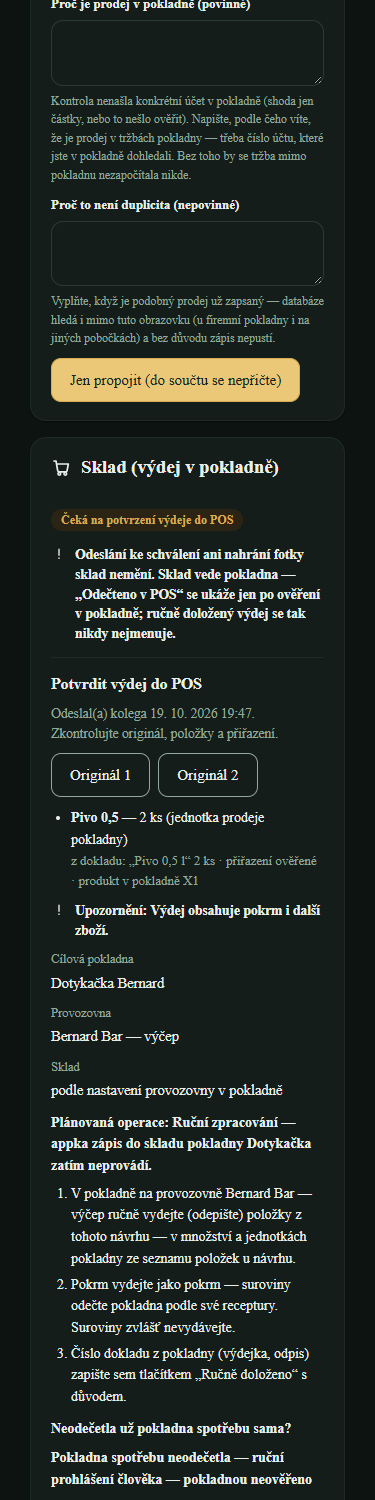
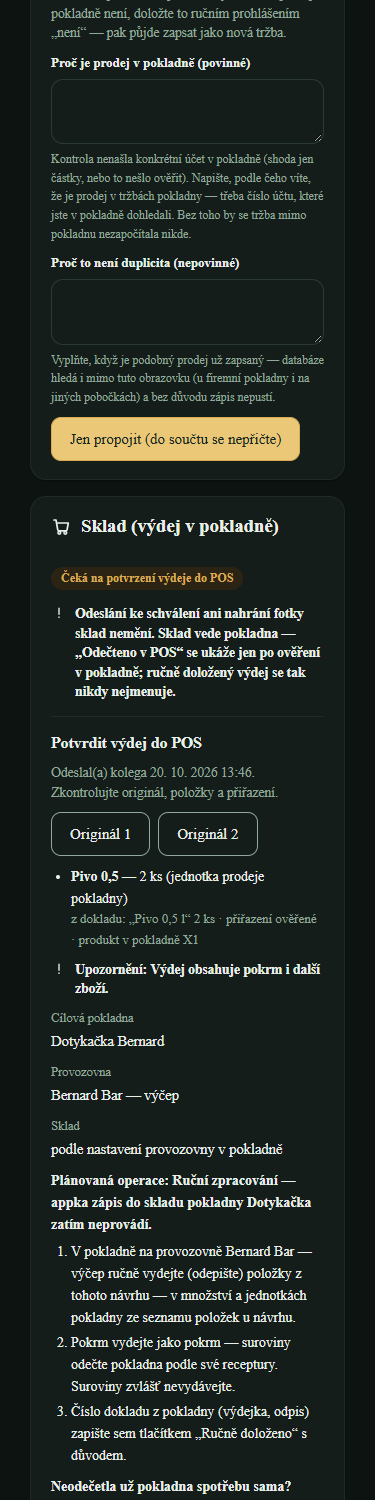
Hlášení: ověření oprav PR #146 (20. 10.) dotažené
11 neúplných oprav a 6 regresí opravených; krok98 209, celý řetěz
3 742, složeně s #147 3 889; 89 z 89 sad; rozbití 121 databáze +
108 aplikace; nové snímky.

Changed region(s): [[0.1173, 0.0, 0.88, 1.0], [0.792, 0.644, 0.8507, 0.6747]]

diff --git a/docs/hlaseni/stav-2026-10-19-jine-platby.md b/docs/hlaseni/stav-2026-10-19-jine-platby.md
@@ -8,6 +8,10 @@ PR.
 > databáze, peníze, pokladna, aplikace, AI; každý nález ověřil další agent)
 > našla 33 platných nálezů. Opravené jsou všechny, tři jen zčásti — viz
 > oddíl **Druhá kontrola (19. 10.)** níž. Čísla v hlášení jsou po opravách.
+>
+> **Doplněno 20. 10.:** nezávislé ověření oprav našlo 11 neúplných oprav a 6
+> nových chyb, které opravy způsobily. Opravené jsou všechny — viz oddíl
+> **Ověření oprav (20. 10.)**. Čísla níž jsou po těchto opravách.
 
 ## Nejdřív to podstatné
 
@@ -47,6 +51,8 @@ PR.
 | **Druhá kontrola:** databáze, scénář krok98 (oddíl 13) | `37e24d2` | **ano** |
 | Druhá kontrola: textová kontrola grantů, dokumentace | `424ba2b`, `f874178` | — |
 | Druhá kontrola: obrazovky, akce, knihovny, navigace Financí, testy | `5fd76d3` | — |
+| **Ověření oprav 20. 10.:** databáze, scénář krok98 (oddíl 14), kontrola grantů | `9244030` | **ano** |
+| Ověření oprav: obrazovky, akce, knihovny, testy; dokumentace | `1c9b755`, `e361e99` | — |
 
 Hlavní opravy z kontroly (podrobně v `docs/jine-platby-navrh.md` a v návodu):
 
@@ -78,35 +84,38 @@ telefon 375 px, telefon v tmavém režimu u panelu schválení).
 ## Čísla — a z čeho jsou
 
 - **Scénář krok98:**
-  - **181 kontrol**; celý řetěz scénářů ve stejném pořadí jako na CI **3 714 kontrol**, nic nespadlo;
+  - **209 kontrol**; celý řetěz scénářů ve stejném pořadí jako na CI **3 742 kontrol**, nic nespadlo;
+  - **složeně s PR #147** (main + #146 + #147, konflikty v `run.sh`, `databaze.yml`, `aplikace.yml` a `otazky.md` vyřešené ponecháním obou stran): **3 889 kontrol**, krok98 209 a krok99 147, nic nespadlo; nový hlídač pořadí migrací z main (#148) prošel;
   - běželo na **PGlite**, ne na PostgreSQL;
   - PGlite **neověří RLS ani sloupcové granty**. Rozhodne workflow „Migrace a scénáře“ na GitHubu, které běží po pushi a jehož výsledek je v PR.
 - **Node testy:** v seznamu CI je **89 sad, všech 89 prošlo**. Z toho Jiné platby:
 
   | sada | kontrol |
   |---|---|
-  | `jine-platby` | 507 |
-  | `jine-platby-detail` | 521 |
-  | `jine-platby-obrazovka` | 252 |
-  | `jine-platby-ai` | 181 |
+  | `jine-platby` | 545 (síť 49 280 kombinací stavů) |
+  | `jine-platby-detail` | 590 |
+  | `jine-platby-obrazovka` | 254 |
+  | `jine-platby-ai` | 199 |
   | `jine-platby-pos-operace` | 73 |
   | `pokladna-dotykacka-sklad` | 168 |
   | `nabidka` | 225 |
   | `finance-pobocky` | 189 |
-  | `provoz-granty` | + 31 nových (Jiné platby bez zápisu pro přihlášené) |
+  | `provoz-granty` | + 31 nových (Jiné platby bez zápisu pro přihlášené) a + 15 (funkce jen pro server bez authenticated) |
 
   - `vydelky` napoprvé spadl. Nabídka nově načítá seznam práv Jiných plateb a test výdělků ho neuměl podstrčit. Opraveno, test teď načítá skutečný soubor.
 - `tsc` a `eslint` nad změněnými soubory jsou čisté.
 - **Schválná rozbití:**
-  - **Databáze, 97 rozbití.** Každé shodilo kontrolu (96 přesně tu, na kterou mířilo).
+  - **Databáze, 121 rozbití.** Každé shodilo kontrolu (120 přesně tu, na kterou mířilo).
     - B48 (pokladna bez kontroly pobočky) spadlo na **dřívější a přísnější** kontrole „cizí firma nevidí katalog“. Stejné rozbití totiž otevře katalog i cizí firmě.
     - Pravidla, která jdou porušit dvěma způsoby, jsem rozbil oběma. Například rozdíl součtu: bez důvodu i s neomezenou tolerancí. Zrušení záznamu: zůstane ve frontě i drží doklad.
-  - **Aplikace:** po první kontrole 77 + 77 rozbití a 3 moje, po druhé 49 (detail) + 71 (knihovny a navigace). Všechna spadla. Před první kontrolou 90 rozbití aplikace a 21 databáze.
+  - **Aplikace:** po první kontrole 77 + 77 rozbití a 3 moje, po druhé 49 (detail) + 71 (knihovny a navigace), po ověření 70 (detail) + 38 (knihovny). Všechna spadla. Před první kontrolou 90 rozbití aplikace a 21 databáze.
+  - **Granty dvěma způsoby:** funkce jen pro server bez revoke od authenticated i s grantem authenticated — obě rozbití shodí kontrolu.
   - **Text migrace:** rozbití revoke u Ostatních tržeb (přihlášený by dostal zápis z výchozích práv Supabase) shodí 3 kontroly v `provoz-granty`; krok98 by tohle v čisté databázi nepoznal nikdy.
   - Rozbití odhalila tři slabé kontroly, které prošly i nad rozbitým kódem: dvakrát duplicity, kde shodu zakryla shoda „den + částka“, a jednu kontrolu, která spadla výjimkou místo výsledku. Všechny tři jsou opravené.
 - **Nezávislá kontrola:**
   - první (17. 10.): 49 nálezů, každý ověřil samostatný agent; 37 obstálo, 12 se vyvrátilo;
   - druhá (19. 10.): 34 nálezů, 33 platných (2 vysoké jako možné), 1 vyvrácený;
+  - ověření oprav (20. 10.): 22 z 33 opraveno, 11 zčásti, 6 nových chyb z oprav (2 střední, 4 nízké) — vše opravené 20. 10.;
   - 2 nálezy opravené v databázi neměly kontrolu ve scénáři (přepočet úhrady, verze při změně odběratele), proto jsem je doplnil.
 
 ## Druhá kontrola (19. 10.)
@@ -139,6 +148,27 @@ Co je opravené jen zčásti:
 - **Nejasný výsledek bez východu:** dohledání podle klíče jde teď i u pokladny bez zápisu přes API; když se pokladna nedá otevřít vůbec, záznam zůstane „nejasný“ a vyřeší ho jen ruční zásah. Dnes nenastane, zápis je vypnutý.
 - **Pokrm a jeho suroviny:** jen varování, ne zákaz — appka receptury nečte.
 
+## Ověření oprav (20. 10.)
+
+Nezávislé ověření (5 ověřovatelů se schválnými rozbitími a jeden hledač regresí) našlo, že část oprav z 19. 10. drží jen napůl. Co se dotáhlo:
+
+- **Ruční „není tam“ proti výsledku pokladny:** pojistka platila jen pro tutéž verzi záznamu a padla prvním uložením (i beze změny). Teď drží, dokud nepřijde novější kontrola z pokladny. U pouhé shody částky („pravděpodobně“) jde přepsat s výslovným potvrzením „prodej v pokladně je jiný“ — dřív to obsluhu zablokovalo. Konkrétní účet přepíše jen člověk s právem na opravy. Celý přepsaný výsledek (i číslo účtu) je v historii.
+- **Jedna platba na fakturu i na Jinou platbu:** opačný směr (nejdřív Jiná platba, pak faktura) teď hlídá spoušť nad párováním faktur. Tvrzení v hlášení z 19. 10. platilo jen pro jedno pořadí, teď platí pro obě.
+- **Sjetina a neurčený doklad:** „v pokladně není“ z dotazu do pokladny už nedostanou nikdy (dřív jen když v pokladně zrovna běžel otevřený účet). Hlídá to aplikace i databáze; zbývá ruční prohlášení s důvodem.
+- **„Možná nezapočítáno“** (nová chyba z 19. 10.): u propojení bez konkrétního účtu to byl falešný poplach a rada „zapište jako novou“ vedla ke dvojí tržbě. Teď jen u propojení s konkrétním účtem a s radou nejdřív ověřit v pokladně.
+- **Pokrm a jeho suroviny:** pokrm s kusovým zbožím chce při schválení výslovné potvrzení „zboží není surovina toho pokrmu“ (pivo už varování nedává). Zákaz to pořád není — appka receptury nečte.
+- **Nejasný výsledek z pokladny:** po vypršení platnosti požadavku jde výdej ručně doložit nebo schválení zrušit (po ověření v pokladně). Ruční doložení neblokuje změna katalogu po schválení (nová chyba z 19. 10.).
+- **Panel „Částky na dokladu“:** návrh si pamatuje čtení AI, ze kterého je (dřív se odhadovalo z verzí a mohlo ukázat čtení, které se nikdy neuložilo).
+- **Rozpoznání AI:** po zápisu tržby zase jde (položky pro sklad; částka, měna a datum zůstanou), se schváleným nebo provedeným výdejem ne. Strop odpovědi podle času, vypršení času je trvalá chyba s radou místo „zkuste znovu“. Bez času tisku na účtence přibude upozornění na provozní den. Test „už běží“ a test pořadí zámku před počítáním stropu.
+- **Druhá linie:** další spouště (alias, tržba se záznamem a pokladnou, soubory, historie, rozpoznání, návrhy, operace) i hláška funkce u odběratele cizí firmy mají kontroly; kontrola nahrávání padá na politice, ne na čemkoli.
+- **Granty:** textová kontrola, že funkce jen pro server odebírají právo i roli authenticated (výchozí práva Supabase) a nikde ho znovu nedostanou.
+
+Co zůstává jen zčásti:
+- **Zápis do Dotykačky (vypnutý):** provozovna u pokladny vázané na pobočku pořád chybí (před zapnutím).
+- **Pokrm a suroviny:** jen potvrzení, ne zákaz.
+- **Okno souběhu u čtení AI:** když kolega uloží úpravu během čtení, uložení čtení spadne až po zaplaceném volání (zbytkové riziko, kontrola ho přijala).
+- **Akce párování v modulu Faktury** (`platby/akce.ts`) směr platby nekontroluje; databáze dvojí úhradu zastaví, ale obrazovka to neřekne předem. Řeší PR #147.
+
 ## Co čeká na Šéfíka
 
 1. **Projít PR a rozhodnout o sloučení.** Po sloučení je potřeba `db push` (jedna migrace `20261016100000_jine_platby`), jinak stránka v produkci nenajde tabulky. Obojí jen na váš výslovný pokyn.
@@ -167,6 +197,7 @@ V `docs/hlaseni/otazky.md`:
   - Na CI ale běží všechny scénáře v jedné databázi a krok93–95 tam nechávají další pokladny Perly. PGlite u mě pouštěl jen etapa0 + krok98, proto to neviděl.
   - Kontrola teď počítá jen pokladny scénáře. Navíc přibyla kontrola, že seznam pokladen pro obsluhu vrací jen netajné sloupce (id, název, poskytovatel, stav, provozovna). Obě jsou schválně rozbité (B60, B61).
   - Práva jsem neměnil. Starou verzi jsem spadnout nechal i u sebe (krok93–95 + krok98), aby bylo jisté, že příčina je tahle.
+- **Pořadí sloučení:** doporučené #146 → #147 → #145 (podle razítek migrací; hlídač z #148 chce, aby nová migrace byla novější než všechny v main). Složený test #146 + #147 prošel.
 - **Kontrolní a opravný workflow se dvakrát přerušil s koncem procesu aplikace.** Obnovil jsem ho z uloženého stavu, žádná práce se neztratila.
 - **19. 10. oba implementátoři oprav po druhé kontrole spadli na výpadku sítě** (po hodině práce). Jejich změny zůstaly v pracovní kopii.
   - Jeden skončil uprostřed schválných rozbití a jedno rozbití nechal v souboru (`logika.ts`, odpisový účet bráný jako prodej). Našel jsem ho porovnáním se zálohou před rozbitím a soubor vrátil. Zbylých 42 rozbití jsem dopustil sám.
